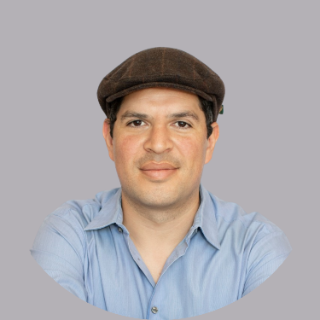
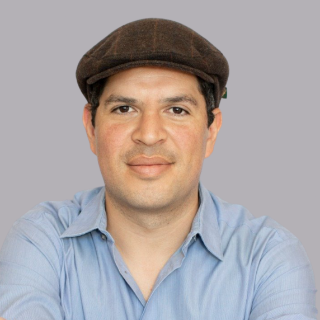
New version

diff --git a/index.html b/index.html
@@ -1,297 +1,27 @@
-<!DOCTYPE html>
-<html lang="en" style="background-color: rgb(121, 18, 206);">
-   <head>
-      <meta charset="UTF-8">
-      <meta name="viewport" content="width=device-width, initial-scale=1.0">
-      <meta name="robots" content="noindex, nofollow">
-      <meta name="author" content="EnBizCard - An Open-Source Digital Business Card Generator">
-      <meta name="url" content="https://enbizcard.vishnuraghav.com/">
-      <meta name="designer" content="Vishnu Raghav">
-      <meta property="og:title" content="Luis Fernandez's Digital Business Card">
-      <meta property="twitter:title" content="Luis Fernandez's Digital Business Card">
-      <script>
-         "http"==window.location.href.substr(0,4)&&"/"!=window.location.href.slice(-1)&&window.location.replace(window.location.href+"/");
-      </script> 
-      <link href="https://fonts.googleapis.com/css?family=Tinos" rel="stylesheet">
-      <title>Luis Fernandez's Digital Business Card</title>
-      <style>
-         #body{ font-family: sans-serif; } input[type='range']::-moz-range-track { background: none; } input[type='range']::-moz-range-thumb { -moz-appearance: none; width: 1.5rem; height: 1.5rem; border-radius: 0.25rem; border: none; background: #1D1A6C; z-index: 3; cursor: pointer; } input[type='range']::-webkit-slider-thumb { -webkit-appearance: none; width: 1.5rem; height: 1.5rem; border-radius: 0.25rem; border: none; background: #1D1A6C; z-index: 3; cursor: pointer; } .closeColor{ filter:invert(1)  } .topAction { } .iconColor{ color:#eee;  } .cardColor{ color:#222 !important } .textColor{ color:#222 !important } .seekbarColor{  background:#1D1A6C80 !important }
-      </style>
-      <!----> 
-      <style>
-         #body{
-         font-family:'Tinos'
-         }
-      </style>
-      <link rel="stylesheet" href="./style.min.css">
-      <!-- Google tag (gtag.js) -->
-      <script async="" src="https://www.googletagmanager.com/gtag/js?id=UA-346503-1"></script>
-      <script>
-         window.dataLayer = window.dataLayer || [];
-         function gtag(){dataLayer.push(arguments);}
-         gtag('js', new Date());
-         
-         gtag('config', 'UA-346503-1');
-      </script>
-   </head>
-   <body id="body">
-      <div id="modal" style="background-color: rgb(221, 221, 221); visibility: hidden; top: 2rem; opacity: 0;">
-         <a id="close" class="closeColor">
-            <div class="icon">
-               <svg viewBox="0 0 24 24" xmlns="http://www.w3.org/2000/svg" xml:space="preserve" style="fill-rule:evenodd;clip-rule:evenodd;stroke-linecap:round;stroke-linejoin:round;stroke-miterlimit:2">
-                  <path style="fill:none" d="M0 0h24v24H0z"></path>
-                  <path d="M18 6 6 18M6 6l12 12" style="fill:none;fill-rule:nonzero;stroke:#fff;stroke-width:2px"></path>
-               </svg>
-            </div>
-         </a>
-         <div id="keyView">
-            <p class="textColor">
-               Use my public key to send me encrypted messages
-            </p>
-            <a download="" target="_blank" id="dlKey" rel="noreferrer" tabindex="-1" style="background-color: rgb(29, 26, 108);" href="./Luis Fernandez's public key.asc">
-               <div class="icon iconColor">
-                  <svg viewBox="0 0 24 24" xmlns="http://www.w3.org/2000/svg" xml:space="preserve" style="fill-rule:evenodd;clip-rule:evenodd;stroke-linecap:round;stroke-linejoin:round;stroke-miterlimit:2">
-                     <path style="fill:none" d="M0 0h24v24H0z"></path>
-                     <path d="M21 15v4c0 1.097-.903 2-2 2H5c-1.097 0-2-.903-2-2v-4m4-5 5 5 5-5m-5 5V3" style="fill:none;fill-rule:nonzero;stroke:#fff;stroke-width:2px"></path>
-                  </svg>
-               </div>
-               <span class="iconColor">Download Key</span>
-            </a>
-         </div>
-         <div id="copyView">
-            <p class="textColor">
-               Copy and send the URL to share my Business Card
-            </p>
-            <button id="copyURL" control-id="ControlID-99" style="background-color: rgb(29, 26, 108);">
-               <div class="icon iconColor">
-                  <svg viewBox="0 0 24 24" xmlns="http://www.w3.org/2000/svg" xml:space="preserve" style="fill-rule:evenodd;clip-rule:evenodd;stroke-linecap:round;stroke-linejoin:round;stroke-miterlimit:2">
-                     <path style="fill:none" d="M0 0h24v24H0z"></path>
-                     <path d="M22 11a2 2 0 0 0-2-2h-9a2 2 0 0 0-2 2v9a2 2 0 0 0 2 2h9a2 2 0 0 0 2-2v-9Z" style="fill:none;stroke:#fff;stroke-width:2px"></path>
-                     <path d="M5 15H4c-1.097 0-2-.903-2-2V4c0-1.097.903-2 2-2h9c1.097 0 2 .903 2 2v1" style="fill:none;fill-rule:nonzero;stroke:#fff;stroke-width:2px"></path>
-                  </svg>
-               </div>
-               <span class="iconColor">Copy URL</span>
-            </button>
-         </div>
-         <div id="qrView" class="textColor">
-            <div id="qr"></div>
-            <h3>Scan the QR Code</h3>
-            <p>to view my Business Card on another device</p>
-         </div>
-      </div>
-      <header>
-         <div id="topActions" style="display: none;">
-            <div>
-               <a id="share">
-                  <div class="icon topAction">
-                     <svg viewBox="0 0 24 24" xmlns="http://www.w3.org/2000/svg" xml:space="preserve" style="fill-rule:evenodd;clip-rule:evenodd;stroke-linecap:round;stroke-miterlimit:2">
-                        <g>
-                           <path style="fill:none" d="M0 0h24v24H0z"></path>
-                           <clipPath id="a">
-                              <path d="M0 0h24v24H0z"></path>
-                           </clipPath>
-                           <g clip-path="url(#a)">
-                              <circle cx="17" cy="5" r="3" style="fill:none;stroke:#fff;stroke-width:2px"></circle>
-                              <circle cx="5" cy="12" r="3" style="fill:none;stroke:#fff;stroke-width:2px"></circle>
-                              <circle cx="17" cy="19" r="3" style="fill:none;stroke:#fff;stroke-width:2px"></circle>
-                              <path d="m7.59 13.51 6.83 3.98m-.01-10.98-6.82 3.98" style="fill:none;stroke:#fff;stroke-width:2px"></path>
-                           </g>
-                        </g>
-                     </svg>
-                  </div>
-               </a>
-               <a id="showQR">
-                  <div class="icon topAction">
-                     <svg viewBox="0 0 24 24" xmlns="http://www.w3.org/2000/svg" xml:space="preserve" style="fill-rule:evenodd;clip-rule:evenodd;stroke-linecap:round;stroke-linejoin:round;stroke-miterlimit:2">
-                        <path style="fill:none" d="M0 0h24v24H0z"></path>
-                        <path d="M4 4h4v4H4V4Zm0 12h4v4H4v-4ZM16 4h4v4h-4V4Z" style="fill:none;stroke:#fff;stroke-width:2px"></path>
-                        <path d="M12 4v14c0 1.097.903 2 2 2h4c1.097 0 2-.903 2-2v-4c0-1.097-.903-2-2-2H4" style="fill:none;stroke:#fff;stroke-width:2px;stroke-linejoin:miter"></path>
-                        <path style="fill:#fff" d="M15 15h2v2h-2z"></path>
-                     </svg>
-                  </div>
-               </a>
-            </div>
-            <!---->
-         </div>
-         <div class="headerImgC"><img id="cover" src="./cover.png" alt="Background Pattern"> <img id="logo" src="./logo.jpeg" alt="Logo" style="margin: 3rem 0px 6rem;"></div>
-      </header>
-      <main style="background-color: rgb(221, 221, 221); margin-top: 0px;">
-         <img id="profilePhoto" src="./photo.png" alt="Photo"> 
-         <div id="info" class="textColor">
-            <p class="name">
-               Luis Fernandez
-            </p>
-            <!----> 
-            <p class="jobtitle">
-               Executive Director
-            </p>
-            <p class="bizname">
-               Wunderman Thmopson Commerce &amp; Tech
-            </p>
-            <!---->
-         </div>
-         <p class="sub textColor">
-            Enterprise tech director, advisor, and consultant. 
-         </p>
-         <a id="cta" rel="noreferrer" download="" target="_blank" aria-label="Save Contact" style="background-color: rgb(29, 26, 108);" href="luisfernandez.vcf">
-            <div class="icon iconColor">
-               <svg viewBox="0 0 24 24" xmlns="http://www.w3.org/2000/svg" xml:space="preserve" style="fill-rule:evenodd;clip-rule:evenodd;stroke-linecap:round;stroke-linejoin:round;stroke-miterlimit:2">
-                  <path style="fill:none" d="M0 0h24v24H0z"></path>
-                  <circle cx="8.5" cy="7" r="4" style="fill:none;stroke:#fff;stroke-width:2.29px" transform="matrix(.875 0 0 .875 4.563 -.625)"></circle>
-                  <path d="M86 181c0-3.863 3.137-7 7-7s7 3.137 7 7" style="fill:none;stroke:#fff;stroke-width:2px" transform="translate(-81 -163)"></path>
-                  <path d="M104 168v6m3-3-3 3-3-3" style="fill:none;fill-rule:nonzero;stroke:#fff;stroke-width:2px" transform="translate(-92 -152)"></path>
-               </svg>
-            </div>
-            <p class="iconColor">Save Contact</p>
-         </a>
-         <div class="actions">
-            <div class="actionsC">
-               <div class="actionBtn">
-                  <a href="tel:+502330124188" target="_blank" rel="noopener noreferrer" aria-label="Mobile" style="background-color: rgb(29, 26, 108);">
-                     <div class="icon iconColor">
-                        <svg viewBox="0 0 24 24" xmlns="http://www.w3.org/2000/svg" xml:space="preserve" style="fill-rule:evenodd;clip-rule:evenodd;stroke-linecap:round;stroke-linejoin:round;stroke-miterlimit:2">
-                           <path style="fill:none" d="M0 0h24v24H0z"></path>
-                           <path d="M11.5 22a.952.952 0 0 1-1.052.945c-4.358-.544-7.851-4.338-8.379-8.39a.938.938 0 0 1 .936-1.046c.399-.009.847-.009 1.202-.009.388 0 .738.237.882.597l.478 1.196a.95.95 0 0 1-.21 1.025l-.107.107a.951.951 0 0 0-.181 1.091c.495.825 1.59 1.92 2.425 2.396a.927.927 0 0 0 1.066-.177c.05-.02.086-.056.122-.092a.95.95 0 0 1 1.025-.21l1.196.478c.36.144.597.494.597.882V22Z" style="fill:none;stroke:#fff;stroke-width:.95px" transform="translate(-2.21 -26.421) scale(2.10526)"></path>
-                        </svg>
-                     </div>
-                  </a>
-                  <p class="textColor">
-                     Mobile
-                  </p>
-               </div>
-            </div>
-            <div class="actionsC">
-               <div class="actionBtn">
-                  <a href="mailto:luis.fernandez@wundermanthompson.com " target="_blank" rel="noopener noreferrer" aria-label="Email" style="background-color: rgb(29, 26, 108);">
-                     <div class="icon iconColor">
-                        <svg viewBox="0 0 24 24" xmlns="http://www.w3.org/2000/svg" xml:space="preserve" style="fill-rule:evenodd;clip-rule:evenodd;stroke-linecap:round;stroke-linejoin:round;stroke-miterlimit:2">
-                           <path style="fill:none" d="M0 0h24v24H0z"></path>
-                           <path d="M22 33.75c0-.966-.896-1.75-2-1.75H4c-1.104 0-2 .784-2 1.75v10.5c0 .966.896 1.75 2 1.75h16c1.104 0 2-.784 2-1.75v-10.5Z" style="fill:none;stroke:#fff;stroke-width:1.86px" transform="matrix(1 0 0 1.14286 0 -32.571)"></path>
-                           <path d="m18 7.042-6 2.625-6-2.625" style="fill:none;fill-rule:nonzero;stroke:#fff;stroke-width:1.86px" transform="matrix(1 0 0 1.14286 0 1.952)"></path>
-                        </svg>
-                     </div>
-                  </a>
-                  <p class="textColor">
-                     Email
-                  </p>
-               </div>
-            </div>
-            <div class="actionsC">
-               <div class="actionBtn">
-                  <a href="sms:+502330124188" target="_blank" rel="noopener noreferrer" aria-label="SMS" style="background-color: rgb(29, 26, 108);">
-                     <div class="icon iconColor">
-                        <svg viewBox="0 0 24 24" xmlns="http://www.w3.org/2000/svg" xml:space="preserve" style="fill-rule:evenodd;clip-rule:evenodd;stroke-linecap:round;stroke-linejoin:round;stroke-miterlimit:2">
-                           <path style="fill:none" d="M0 0h24v24H0z"></path>
-                           <path d="M75.3 61c.477 0 .935.171 1.273.476.337.305.527.718.527 1.149v8.125c0 .897-.806 1.625-1.8 1.625h-8.975a9.7 9.7 0 0 0-4.992 1.365L60.9 74V62.625c0-.431.19-.844.527-1.149A1.904 1.904 0 0 1 62.7 61h12.6Z" style="fill:none;stroke:#fff;stroke-width:1.71px" transform="matrix(1.11111 0 0 1.23077 -64.667 -71.077)"></path>
-                           <path d="M36 13h4" style="fill:none;stroke:#fff;stroke-width:2px;stroke-linejoin:miter" transform="translate(-28)"></path>
-                           <path d="M36 9h8" style="fill:none;stroke:#fff;stroke-width:2px" transform="translate(-28)"></path>
-                        </svg>
-                     </div>
-                  </a>
-                  <p class="textColor">
-                     SMS
-                  </p>
-               </div>
-            </div>
-            <div class="actionsC">
-               <div class="actionBtn">
-                  <a href="https://api.whatsapp.com/send?phone=50230124188&text=Hi%20Luis!" target="_blank" rel="noopener noreferrer" aria-label="WhatsApp" style="background-color: rgb(29, 26, 108);">
-                     <div class="icon iconColor">
-                        <svg viewBox="0 0 24 24" xmlns="http://www.w3.org/2000/svg" xml:space="preserve" style="fill-rule:evenodd;clip-rule:evenodd;stroke-linecap:round;stroke-linejoin:round;stroke-miterlimit:1.5">
-                           <path style="fill:none" d="M0 0h24v24H0z"></path>
-                           <path d="M5.43 4.93A9.969 9.969 0 0 1 12.5 2c5.519 0 10 4.481 10 10 0 2.76-1.12 5.26-2.93 7.07l.001.001-.003.001A9.97 9.97 0 0 1 12.5 22a9.835 9.835 0 0 1-5.005-1.354l-4.187.546.546-4.187A9.835 9.835 0 0 1 2.5 12a9.97 9.97 0 0 1 2.928-7.068l.001-.003.001.001ZM16.5 16c-4.415 0-8-3.585-8-8" style="fill:none;stroke:#fff;stroke-width:2px"></path>
-                        </svg>
-                     </div>
-                  </a>
-                  <p class="textColor">
-                     WhatsApp
-                  </p>
-               </div>
-            </div>
-
-            <div class="actionsC">
-               <div class="actionBtn">
-                  <a target="_blank" rel="noopener noreferrer" aria-label="Calendar" style="background-color: rgb(29, 26, 108);" href="https://outlook.office.com/bookwithme/user/39805f96a8ae46d78021a135503fee05@wundermanthompson.com?anonymous&amp;ep=plink">
-                     <div class="icon iconColor">
-                        <svg viewBox="0 0 24 24" xmlns="http://www.w3.org/2000/svg" xml:space="preserve" style="fill-rule:evenodd;clip-rule:evenodd;stroke-linecap:round;stroke-linejoin:round;stroke-miterlimit:2">
-                           <path style="fill:none" d="M0 0h24v24H0z"></path>
-                           <path d="M19 75.111a2.13 2.13 0 0 0 1.414-.521c.375-.333.586-.785.586-1.257V61.778c0-.472-.211-.924-.586-1.257A2.13 2.13 0 0 0 19 60H5a2.13 2.13 0 0 0-1.414.521A1.683 1.683 0 0 0 3 61.778v11.555c0 .472.211.924.586 1.257A2.13 2.13 0 0 0 5 75.111h14Z" style="fill:none;stroke:#fff;stroke-width:1.88px" transform="matrix(1 0 0 1.125 0 -63.5)"></path>
-                           <path d="M76 30v4" style="fill:none;stroke:#fff;stroke-width:2px" transform="translate(-60 -28)"></path>
-                           <path d="M76 30v4" style="fill:none;stroke:#fff;stroke-width:2px" transform="translate(-68 -28)"></path>
-                           <path d="M63 38h10" style="fill:none;stroke:#fff;stroke-width:2px" transform="translate(-56 -28)"></path>
-                        </svg>
-                     </div>
-                  </a>
-                  <p class="textColor">
-                     Calendar
-                  </p>
-               </div>
-            </div>
-            <div class="actionsC">
-              <div class="actionBtn">
-                 <a target="_blank" rel="noopener noreferrer" aria-label="Website" style="background-color: rgb(29, 26, 108);" href="https://guisho.com">
-                    <div class="icon iconColor">
-                       <svg viewBox="0 0 24 24" xmlns="http://www.w3.org/2000/svg" xml:space="preserve" style="fill-rule:evenodd;clip-rule:evenodd;stroke-linecap:round;stroke-linejoin:round;stroke-miterlimit:2">
-                          <g>
-                             <path style="fill:none" d="M0 0h24v24H0z"></path>
-                             <clipPath id="a">
-                                <path d="M0 0h24v24H0z"></path>
-                             </clipPath>
-                             <g clip-path="url(#a)">
-                                <circle cx="12" cy="12" r="10" style="fill:none;stroke:#fff;stroke-width:2px"></circle>
-                                <ellipse cx="40" cy="40" rx="4" ry="10" style="fill:none;stroke:#fff;stroke-width:2px;stroke-linejoin:miter" transform="translate(-28 -28)"></ellipse>
-                                <path d="M40 50s-2-4-2-10 2-10 2-10" style="fill:none;stroke:#fff;stroke-width:2px" transform="rotate(-90 11.5 39.5)"></path>
-                             </g>
-                          </g>
-                       </svg>
-                    </div>
-                 </a>
-                 <p class="textColor">
-                    Website
-                 </p>
-              </div>
-           </div>
-        </div>
-    
-
-
-         </div>
-         <div class="actions secondary">
-            <div class="actionsC">
-               <div class="actionBtn secBtn">
-                  <a href="https://www.linkedin.com/in/fernandezgt/" target="_blank" rel="noopener noreferrer" aria-label="LinkedIn" style="background: rgb(0, 119, 181);">
-                     <div class="icon">
-                        <svg xmlns="http://www.w3.org/2000/svg" fill="#fff" viewBox="0 0 24 24">
-                           <path d="M20 3H4a1 1 0 0 0-1 1v16a1 1 0 0 0 1 1h16a1 1 0 0 0 1-1V4a1 1 0 0 0-1-1zM8.339 18.337H5.667v-8.59h2.672v8.59zM7.003 8.574a1.548 1.548 0 1 1 0-3.096 1.548 1.548 0 0 1 0 3.096zm11.335 9.763h-2.669V14.16c0-.996-.018-2.277-1.388-2.277-1.39 0-1.601 1.086-1.601 2.207v4.248h-2.667v-8.59h2.56v1.174h.037c.355-.675 1.227-1.387 2.524-1.387 2.704 0 3.203 1.778 3.203 4.092v4.71z"></path>
-                        </svg>
-                     </div>
-                  </a>
-               </div>
-            </div>
-         </div>
-
-
-         
-
-         <div class="featured">
-          <h2 class="section textColor">
-             QR Code
-          </h2>
-          <div>
-             <div class="media image" style="background-color: rgb(255, 255, 255);">
-                <div>
-                   <img src="./media/qr.png" alt="Product image"> 
-                   <div class="controls cardColor">
-                      <p class="title">
-                         QR
-                      </p>
-                   </div>
-                </div>
-                <!----> <!---->
-             </div>
-          </div>
-         
-      </main>
-      <!----><script src="./qrcode.min.js"></script><script>let m=document.getElementById("modal"),c=document.getElementById("close"),ki=document.getElementById("keyView"),cv=document.getElementById("copyView"),curl=document.getElementById("copyURL"),qrv=document.getElementById("qrView"),qr=document.getElementById("qr"),s=document.getElementById("share"),sqr=document.getElementById("showQR"),sk=document.getElementById("showKey");function tC(e){"2rem"==e.style.top?(e.style.visibility="visible",e.style.top="0px",e.style.opacity=1):(e.style.top="2rem",e.style.opacity=0,setTimeout(()=>{e.style.visibility="hidden"},200))}function dN(e){e.style.display="none"}window.addEventListener("load",()=>{document.querySelector("#topActions").style.display="flex",qr.innerHTML=new QRCode({content:window.location.href,container:"svg-viewbox",join:!0,ecl:"L",padding:0}).svg()}),navigator.canShare?s.addEventListener("click",()=>{navigator.share({title:document.title,text:"You can view my Digital Business Card here:",url:window.location.href})}):s.addEventListener("click",()=>{tC(m),cv.style.display="flex",dN(qrv),ki&&dN(ki)}),sqr.addEventListener("click",()=>{tC(m),qrv.style.display="block",dN(cv),ki&&dN(ki)}),sk&&sk.addEventListener("click",()=>{tC(m),ki&&(ki.style.display="flex"),dN(cv),dN(qrv)}),c.addEventListener("click",()=>tC(m)),curl.addEventListener("click",async()=>{let e=curl.querySelectorAll(".iconColor")[1];await navigator.clipboard.writeText(window.location.href).then(t=>{e.innerText="Copied",setTimeout(()=>{e.innerText="Copy URL"},1e3)})});</script><script>let pC=document.querySelectorAll(".pCtrl"),pP=document.querySelectorAll(".playPause"),srcs=document.querySelectorAll(".source");srcs.forEach(e=>{e.style.pointerEvents="none",e.removeAttribute("controls")}),pC.forEach((e,l)=>{e.style.display="flex";let r=e.querySelector(".currentTime"),s=e.querySelector(".seekBar"),t=e.querySelector(".playPause"),a=t.querySelector(".play"),c=t.querySelector(".pause");srcs[l].addEventListener("timeupdate",()=>{let e=srcs[l].currentTime,t=100/srcs[l].duration*e;s.value=t,100==t&&(s.value=0,a.style.display="block",c.style.display="none");let o=Math.floor(e/60),y=Math.floor(e%60);o.toString().length<2&&(o="0"+o),y.toString().length<2&&(y="0"+y),r.value=o+":"+y}),s.addEventListener("change",()=>{srcs[l].currentTime=srcs[l].duration*(parseInt(s.value)/100)}),t.addEventListener("click",()=>{srcs[l].paused?(srcs.forEach((e,r)=>{l!=r&&(e.paused||e.pause())}),pP.forEach((e,l)=>{let r=e.querySelector(".play"),s=e.querySelector(".pause");r.style.display="block",s.style.display="none"}),srcs[l].play(),a.style.display="none",c.style.display="block"):(srcs[l].pause(),c.style.display="none",a.style.display="block")})});</script>
-   </body>
-</html>
+<!DOCTYPE html><html lang="en" style="background-color: rgb(0, 0, 0);"><head><meta charset="UTF-8"> <meta name="viewport" content="width=device-width, initial-scale=1.0"> <meta name="robots" content="noindex, nofollow"> <meta name="author" content="EnBizCard - An Open-Source Digital Business Card Generator"> <meta name="url" content="https://enbizcard.vishnuraghav.com/"> <meta name="designer" content="Vishnu Raghav"> <meta property="og:title" content="Luis Fernandez's Digital Business Card"> <meta property="twitter:title" content="Luis Fernandez's Digital Business Card"> <script>
+          "http"==window.location.href.substr(0,4)&&"/"!=window.location.href.slice(-1)&&window.location.replace(window.location.href+"/");
+        </script> <!----> <title>Luis Fernandez's Digital Business Card</title> <style>
+          #body{ font-family: sans-serif; } input[type='range']::-moz-range-track { background: none; } input[type='range']::-moz-range-thumb { -moz-appearance: none; width: 1.5rem; height: 1.5rem; border-radius: 100%; border: none; background: #000000; z-index: 3; cursor: pointer; } input[type='range']::-webkit-slider-thumb { -webkit-appearance: none; width: 1.5rem; height: 1.5rem; border-radius: 100%; border: none; background: #000000; z-index: 3; cursor: pointer; } .closeColor{ filter:invert(1)  } .topAction { } .iconColor{ color:#eee;  } .cardColor{ false } .textColor{ color:#222 !important } .seekbarColor{  background:#00000080 !important }
+        </style> <!----> <!----><link rel="stylesheet" href="./style.min.css"></head> <body id="body"><div id="modal" style="background-color: rgb(255, 255, 255); visibility: hidden; top: 2rem; opacity: 0;"><a id="close" class="closeColor"><div class="icon"><svg viewBox="0 0 24 24" xmlns="http://www.w3.org/2000/svg" xml:space="preserve" style="fill-rule:evenodd;clip-rule:evenodd;stroke-linecap:round;stroke-linejoin:round;stroke-miterlimit:2"><path style="fill:none" d="M0 0h24v24H0z"></path><path d="M18 6 6 18M6 6l12 12" style="fill:none;fill-rule:nonzero;stroke:#fff;stroke-width:2px"></path></svg></div></a> <div id="keyView"><p class="textColor">
+              Use my public key to send me encrypted messages
+            </p> <a download="" target="_blank" id="dlKey" rel="noreferrer" tabindex="-1" style="background-color: rgb(0, 0, 0);" href="./Luis Fernandez's public key.asc"><div class="icon iconColor"><svg viewBox="0 0 24 24" xmlns="http://www.w3.org/2000/svg" xml:space="preserve" style="fill-rule:evenodd;clip-rule:evenodd;stroke-linecap:round;stroke-linejoin:round;stroke-miterlimit:2"><path style="fill:none" d="M0 0h24v24H0z"></path><path d="M21 15v4c0 1.097-.903 2-2 2H5c-1.097 0-2-.903-2-2v-4m4-5 5 5 5-5m-5 5V3" style="fill:none;fill-rule:nonzero;stroke:#fff;stroke-width:2px"></path></svg></div> <span class="iconColor">Download Key</span></a></div> <div id="copyView"><p class="textColor">
+              Copy and send the URL to share my Business Card
+            </p> <button id="copyURL" style="background-color: rgb(0, 0, 0);"><div class="icon iconColor"><svg viewBox="0 0 24 24" xmlns="http://www.w3.org/2000/svg" xml:space="preserve" style="fill-rule:evenodd;clip-rule:evenodd;stroke-linecap:round;stroke-linejoin:round;stroke-miterlimit:2"><path style="fill:none" d="M0 0h24v24H0z"></path><path d="M22 11a2 2 0 0 0-2-2h-9a2 2 0 0 0-2 2v9a2 2 0 0 0 2 2h9a2 2 0 0 0 2-2v-9Z" style="fill:none;stroke:#fff;stroke-width:2px"></path><path d="M5 15H4c-1.097 0-2-.903-2-2V4c0-1.097.903-2 2-2h9c1.097 0 2 .903 2 2v1" style="fill:none;fill-rule:nonzero;stroke:#fff;stroke-width:2px"></path></svg></div> <span class="iconColor">Copy URL</span></button></div> <div id="qrView" class="textColor"><div id="qr"></div> <h3>Scan the QR Code</h3> <p>to view my Business Card on another device</p></div></div> <header><div id="topActions" style="display: none;"><div><a id="share"><div class="icon topAction"><svg viewBox="0 0 24 24" xmlns="http://www.w3.org/2000/svg" xml:space="preserve" style="fill-rule:evenodd;clip-rule:evenodd;stroke-linecap:round;stroke-miterlimit:2"><g><path style="fill:none" d="M0 0h24v24H0z"></path><clipPath id="a"><path d="M0 0h24v24H0z"></path></clipPath><g clip-path="url(#a)"><circle cx="17" cy="5" r="3" style="fill:none;stroke:#fff;stroke-width:2px"></circle><circle cx="5" cy="12" r="3" style="fill:none;stroke:#fff;stroke-width:2px"></circle><circle cx="17" cy="19" r="3" style="fill:none;stroke:#fff;stroke-width:2px"></circle><path d="m7.59 13.51 6.83 3.98m-.01-10.98-6.82 3.98" style="fill:none;stroke:#fff;stroke-width:2px"></path></g></g></svg></div></a> <a id="showQR"><div class="icon topAction"><svg viewBox="0 0 24 24" xmlns="http://www.w3.org/2000/svg" xml:space="preserve" style="fill-rule:evenodd;clip-rule:evenodd;stroke-linecap:round;stroke-linejoin:round;stroke-miterlimit:2"><path style="fill:none" d="M0 0h24v24H0z"></path><path d="M4 4h4v4H4V4Zm0 12h4v4H4v-4ZM16 4h4v4h-4V4Z" style="fill:none;stroke:#fff;stroke-width:2px"></path><path d="M12 4v14c0 1.097.903 2 2 2h4c1.097 0 2-.903 2-2v-4c0-1.097-.903-2-2-2H4" style="fill:none;stroke:#fff;stroke-width:2px;stroke-linejoin:miter"></path><path style="fill:#fff" d="M15 15h2v2h-2z"></path></svg></div></a></div> <!----></div> <div class="headerImgC"><img id="cover" src="./cover.jpeg" alt="Background Pattern"> <img id="logo" src="./logo.jpeg" alt="Logo" style="margin: 3rem 0px 6rem;"></div></header> <main style="background-color: rgb(255, 255, 255); margin-top: 0px;"><img id="profilePhoto" src="./photo.png" alt="Photo"> <div id="info" class="textColor"><p class="name">
+              Luis Fernandez
+            </p> <!----> <p class="jobtitle">
+              Executive Director, Tech
+            </p> <p class="bizname">
+              ES at VML
+            </p> <!----></div> <!----> <a id="cta" rel="noreferrer" download="" target="_blank" aria-label="Save Contact" style="background-color: rgb(0, 0, 0);" href="luisfernandez.vcf"><div class="icon iconColor"><svg viewBox="0 0 24 24" xmlns="http://www.w3.org/2000/svg" xml:space="preserve" style="fill-rule:evenodd;clip-rule:evenodd;stroke-linecap:round;stroke-linejoin:round;stroke-miterlimit:2"><path style="fill:none" d="M0 0h24v24H0z"></path><circle cx="8.5" cy="7" r="4" style="fill:none;stroke:#fff;stroke-width:2.29px" transform="matrix(.875 0 0 .875 4.563 -.625)"></circle><path d="M86 181c0-3.863 3.137-7 7-7s7 3.137 7 7" style="fill:none;stroke:#fff;stroke-width:2px" transform="translate(-81 -163)"></path><path d="M104 168v6m3-3-3 3-3-3" style="fill:none;fill-rule:nonzero;stroke:#fff;stroke-width:2px" transform="translate(-92 -152)"></path></svg></div> <p class="iconColor">Save Contact</p></a> <div class="actions"><div class="actionsC"><div class="actionBtn"><a href="tel:(551) 231-9133" target="_blank" rel="noopener noreferrer" aria-label="Mobile" style="background-color: rgb(0, 0, 0);"><div class="icon iconColor"><svg viewBox="0 0 24 24" xmlns="http://www.w3.org/2000/svg" xml:space="preserve" style="fill-rule:evenodd;clip-rule:evenodd;stroke-linecap:round;stroke-linejoin:round;stroke-miterlimit:2"><path style="fill:none" d="M0 0h24v24H0z"></path><path d="M11.5 22a.952.952 0 0 1-1.052.945c-4.358-.544-7.851-4.338-8.379-8.39a.938.938 0 0 1 .936-1.046c.399-.009.847-.009 1.202-.009.388 0 .738.237.882.597l.478 1.196a.95.95 0 0 1-.21 1.025l-.107.107a.951.951 0 0 0-.181 1.091c.495.825 1.59 1.92 2.425 2.396a.927.927 0 0 0 1.066-.177c.05-.02.086-.056.122-.092a.95.95 0 0 1 1.025-.21l1.196.478c.36.144.597.494.597.882V22Z" style="fill:none;stroke:#fff;stroke-width:.95px" transform="translate(-2.21 -26.421) scale(2.10526)"></path></svg></div></a> <p class="textColor">
+                  Mobile
+                </p></div></div><div class="actionsC"><div class="actionBtn"><a href="sms:(551) 231-9133" target="_blank" rel="noopener noreferrer" aria-label="SMS" style="background-color: rgb(0, 0, 0);"><div class="icon iconColor"><svg viewBox="0 0 24 24" xmlns="http://www.w3.org/2000/svg" xml:space="preserve" style="fill-rule:evenodd;clip-rule:evenodd;stroke-linecap:round;stroke-linejoin:round;stroke-miterlimit:2"><path style="fill:none" d="M0 0h24v24H0z"></path><path d="M75.3 61c.477 0 .935.171 1.273.476.337.305.527.718.527 1.149v8.125c0 .897-.806 1.625-1.8 1.625h-8.975a9.7 9.7 0 0 0-4.992 1.365L60.9 74V62.625c0-.431.19-.844.527-1.149A1.904 1.904 0 0 1 62.7 61h12.6Z" style="fill:none;stroke:#fff;stroke-width:1.71px" transform="matrix(1.11111 0 0 1.23077 -64.667 -71.077)"></path><path d="M36 13h4" style="fill:none;stroke:#fff;stroke-width:2px;stroke-linejoin:miter" transform="translate(-28)"></path><path d="M36 9h8" style="fill:none;stroke:#fff;stroke-width:2px" transform="translate(-28)"></path></svg></div></a> <p class="textColor">
+                  SMS
+                </p></div></div><div class="actionsC"><div class="actionBtn"><a target="_blank" rel="noopener noreferrer" aria-label="WhatsApp" style="background-color: rgb(0, 0, 0);" href="https://api.whatsapp.com/send?phone=15512319133&amp;text=Hi%20Luis!"><div class="icon iconColor"><svg viewBox="0 0 24 24" xmlns="http://www.w3.org/2000/svg" xml:space="preserve" style="fill-rule:evenodd;clip-rule:evenodd;stroke-linecap:round;stroke-linejoin:round;stroke-miterlimit:1.5"><path style="fill:none" d="M0 0h24v24H0z"></path><path d="M5.43 4.93A9.969 9.969 0 0 1 12.5 2c5.519 0 10 4.481 10 10 0 2.76-1.12 5.26-2.93 7.07l.001.001-.003.001A9.97 9.97 0 0 1 12.5 22a9.835 9.835 0 0 1-5.005-1.354l-4.187.546.546-4.187A9.835 9.835 0 0 1 2.5 12a9.97 9.97 0 0 1 2.928-7.068l.001-.003.001.001ZM16.5 16c-4.415 0-8-3.585-8-8" style="fill:none;stroke:#fff;stroke-width:2px"></path></svg></div></a> <p class="textColor">
+                  WhatsApp
+                </p></div></div><div class="actionsC"><div class="actionBtn"><a href="mailto:luis.fernandez@vml.com" target="_blank" rel="noopener noreferrer" aria-label="Email" style="background-color: rgb(0, 0, 0);"><div class="icon iconColor"><svg viewBox="0 0 24 24" xmlns="http://www.w3.org/2000/svg" xml:space="preserve" style="fill-rule:evenodd;clip-rule:evenodd;stroke-linecap:round;stroke-linejoin:round;stroke-miterlimit:2"><path style="fill:none" d="M0 0h24v24H0z"></path><path d="M22 33.75c0-.966-.896-1.75-2-1.75H4c-1.104 0-2 .784-2 1.75v10.5c0 .966.896 1.75 2 1.75h16c1.104 0 2-.784 2-1.75v-10.5Z" style="fill:none;stroke:#fff;stroke-width:1.86px" transform="matrix(1 0 0 1.14286 0 -32.571)"></path><path d="m18 7.042-6 2.625-6-2.625" style="fill:none;fill-rule:nonzero;stroke:#fff;stroke-width:1.86px" transform="matrix(1 0 0 1.14286 0 1.952)"></path></svg></div></a> <p class="textColor">
+                  Email
+                </p></div></div><div class="actionsC"><div class="actionBtn"><a target="_blank" rel="noopener noreferrer" aria-label="Calendar" style="background-color: rgb(0, 0, 0);" href="https://outlook.office.com/bookwithme/user/39805f96a8ae46d78021a135503fee05@wundermanthompson.com/meetingtype/ZCCU0JtvHUaJeK6xwjzykg2?anonymous&amp;ep=mlink"><div class="icon iconColor"><svg viewBox="0 0 24 24" xmlns="http://www.w3.org/2000/svg" xml:space="preserve" style="fill-rule:evenodd;clip-rule:evenodd;stroke-linecap:round;stroke-linejoin:round;stroke-miterlimit:2"><path style="fill:none" d="M0 0h24v24H0z"></path><path d="M19 75.111a2.13 2.13 0 0 0 1.414-.521c.375-.333.586-.785.586-1.257V61.778c0-.472-.211-.924-.586-1.257A2.13 2.13 0 0 0 19 60H5a2.13 2.13 0 0 0-1.414.521A1.683 1.683 0 0 0 3 61.778v11.555c0 .472.211.924.586 1.257A2.13 2.13 0 0 0 5 75.111h14Z" style="fill:none;stroke:#fff;stroke-width:1.88px" transform="matrix(1 0 0 1.125 0 -63.5)"></path><path d="M76 30v4" style="fill:none;stroke:#fff;stroke-width:2px" transform="translate(-60 -28)"></path><path d="M76 30v4" style="fill:none;stroke:#fff;stroke-width:2px" transform="translate(-68 -28)"></path><path d="M63 38h10" style="fill:none;stroke:#fff;stroke-width:2px" transform="translate(-56 -28)"></path></svg></div></a> <p class="textColor">
+                  Calendar
+                </p></div></div></div> <div class="actions secondary"><div class="actionsC"><div class="actionBtn secBtn"><a href="https://linkedin.com/https://www.linkedin.com/in/fernandezgt/" target="_blank" rel="noopener noreferrer" aria-label="LinkedIn" style="background: rgb(0, 119, 181);"><div class="icon"><svg xmlns="http://www.w3.org/2000/svg" fill="#fff" viewBox="0 0 24 24"><path d="M20 3H4a1 1 0 0 0-1 1v16a1 1 0 0 0 1 1h16a1 1 0 0 0 1-1V4a1 1 0 0 0-1-1zM8.339 18.337H5.667v-8.59h2.672v8.59zM7.003 8.574a1.548 1.548 0 1 1 0-3.096 1.548 1.548 0 0 1 0 3.096zm11.335 9.763h-2.669V14.16c0-.996-.018-2.277-1.388-2.277-1.39 0-1.601 1.086-1.601 2.207v4.248h-2.667v-8.59h2.56v1.174h.037c.355-.675 1.227-1.387 2.524-1.387 2.704 0 3.203 1.778 3.203 4.092v4.71z"></path></svg></div></a></div></div></div> <div class="featured"><h2 class="section textColor">
+              Section title
+            </h2> </div></main> <!----><script src="./qrcode.min.js"></script><script>let m=document.getElementById("modal"),c=document.getElementById("close"),ki=document.getElementById("keyView"),cv=document.getElementById("copyView"),curl=document.getElementById("copyURL"),qrv=document.getElementById("qrView"),qr=document.getElementById("qr"),s=document.getElementById("share"),sqr=document.getElementById("showQR"),sk=document.getElementById("showKey");function tC(e){"2rem"==e.style.top?(e.style.visibility="visible",e.style.top="0px",e.style.opacity=1):(e.style.top="2rem",e.style.opacity=0,setTimeout(()=>{e.style.visibility="hidden"},200))}function dN(e){e.style.display="none"}window.addEventListener("load",()=>{document.querySelector("#topActions").style.display="flex",qr.innerHTML=new QRCode({content:window.location.href,container:"svg-viewbox",join:!0,ecl:"L",padding:0}).svg()}),navigator.canShare?s.addEventListener("click",()=>{navigator.share({title:document.title,text:"You can view my Digital Business Card here:",url:window.location.href})}):s.addEventListener("click",()=>{tC(m),cv.style.display="flex",dN(qrv),ki&&dN(ki)}),sqr.addEventListener("click",()=>{tC(m),qrv.style.display="block",dN(cv),ki&&dN(ki)}),sk&&sk.addEventListener("click",()=>{tC(m),ki&&(ki.style.display="flex"),dN(cv),dN(qrv)}),c.addEventListener("click",()=>tC(m)),curl.addEventListener("click",async()=>{let e=curl.querySelectorAll(".iconColor")[1];await navigator.clipboard.writeText(window.location.href).then(t=>{e.innerText="Copied",setTimeout(()=>{e.innerText="Copy URL"},1e3)})});</script><script>let pC=document.querySelectorAll(".pCtrl"),pP=document.querySelectorAll(".playPause"),srcs=document.querySelectorAll(".source");srcs.forEach(e=>{e.style.pointerEvents="none",e.removeAttribute("controls")}),pC.forEach((e,l)=>{e.style.display="flex";let r=e.querySelector(".currentTime"),s=e.querySelector(".seekBar"),t=e.querySelector(".playPause"),a=t.querySelector(".play"),c=t.querySelector(".pause");srcs[l].addEventListener("timeupdate",()=>{let e=srcs[l].currentTime,t=100/srcs[l].duration*e;s.value=t,100==t&&(s.value=0,a.style.display="block",c.style.display="none");let o=Math.floor(e/60),y=Math.floor(e%60);o.toString().length<2&&(o="0"+o),y.toString().length<2&&(y="0"+y),r.value=o+":"+y}),s.addEventListener("change",()=>{srcs[l].currentTime=srcs[l].duration*(parseInt(s.value)/100)}),t.addEventListener("click",()=>{srcs[l].paused?(srcs.forEach((e,r)=>{l!=r&&(e.paused||e.pause())}),pP.forEach((e,l)=>{let r=e.querySelector(".play"),s=e.querySelector(".pause");r.style.display="block",s.style.display="none"}),srcs[l].play(),a.style.display="none",c.style.display="block"):(srcs[l].pause(),c.style.display="none",a.style.display="block")})});</script></body></html>

diff --git a/style.min.css b/style.min.css
@@ -1,1 +1,1 @@
-body{margin:0 auto;width:100%;padding:0;max-width:30rem;color:#eee;position:relative}p{line-height:1.5;margin:0}h2,h3{margin:0}.icon{width:1.5rem;height:1.5rem}a{text-decoration:none;-webkit-user-select:none;-moz-user-select:none;-ms-user-select:none;user-select:none}#modal{display:flex;flex-direction:column;position:absolute;z-index:1;width:100%;bottom:0;transition:top .2s ease-out,opacity .1s ease-out;transform:translateZ(0)}#close{align-self:end;padding:1rem;cursor:pointer;line-height:0}#keyView,#copyView,#qrView{display:flex;flex-direction:column;align-items:center;margin:0 1rem;text-align:center}#keyView p,#copyView p,#qrView p{margin:2rem}#copyURL,#dlKey{display:flex;width:100%;align-items:center;justify-content:center;border-radius:.5rem;padding:1rem 1.5rem;border:none;outline:none;cursor:pointer;box-sizing:border-box}#copyURL span,#dlKey span{margin-left:.5rem}#qrView h3{margin:2rem 2rem 0}#qrView p{margin:.5rem 2rem 0}#qr{margin:2rem;padding:2rem;background:#fff;border-radius:.5rem}header{display:flex;justify-content:flex-start;flex-direction:column}.headerImgC{display:grid;grid-template-columns:auto;grid-template-rows:auto;overflow:hidden}#cover{grid-column:1;grid-row:1;width:100%;height:20rem;-o-object-position:top center;object-position:top center;-o-object-fit:cover;object-fit:cover}#logo{max-height:6rem;pointer-events:none;-webkit-user-select:none;-moz-user-select:none;-ms-user-select:none;user-select:none;grid-column:1;grid-row:1;align-self:center;justify-self:center}#topActions{flex-direction:row-reverse;justify-content:space-between;align-items:flex-start}#topActions>div{display:flex}#topActions a{padding:1rem;cursor:pointer;line-height:0}main{padding:1rem;display:flex;flex-direction:column;align-items:center;text-align:center}#profilePhoto{width:10rem;height:10rem;border-radius:.5rem;box-sizing:content-box;pointer-events:none;-webkit-user-select:none;-moz-user-select:none;-ms-user-select:none;user-select:none;margin-top:-6rem}#info{display:flex;flex-direction:column;justify-content:center;align-items:center;margin-top:1rem;line-height:1.25;word-break:break-word}.name{font-weight:bold;font-size:1.5rem;margin:0}.pronouns{display:block;font-size:.9rem;opacity:.8;font-weight:normal;margin:0 0 .5rem}.bizname{font-size:.9rem;margin:.5rem 0 0 0;opacity:.8}.bizaddr{font-size:.8rem;opacity:.6}.sub,.textC{font-size:1rem;white-space:pre-line;line-height:1.5}.sub{font-size:.9rem;margin:.5rem 0 0;opacity:.8}.textC{margin:1rem}#cta{display:flex;align-items:center;border-radius:.5rem;margin-top:2rem;padding:1rem 1.5rem;cursor:pointer;line-height:0;width:100%;justify-content:center;box-sizing:border-box}#cta .icon{margin-right:.5rem}#cta p{margin:0}.actions{width:100%;margin-top:2rem;display:flex;flex-wrap:wrap;justify-content:center}.actionsC{width:33.33%}.actionBtn{padding:.5rem;display:flex;flex-direction:column;align-items:center;justify-content:center}.actionBtn a{border-radius:.5rem;padding:1rem;line-height:0}.actionBtn p{margin:.5rem 0 0;font-size:.9rem}.secBtn{padding:1rem}.featured{display:flex;flex-direction:column;justify-content:center;margin:2rem 0 0;width:100%}.section{font-weight:bold;text-align:center;font-size:1.3rem;padding:1rem 0}.media{overflow:hidden;border-radius:.5rem;margin-top:1rem}.media img{display:block;pointer-events:none;-webkit-user-select:none;-moz-user-select:none;-ms-user-select:none;user-select:none;width:100%}.embedded{position:relative;padding-top:100%}.embedded iframe{position:absolute;top:0;left:0;width:100%;height:100%}.music,.video{width:100%}.mediaC{display:flex;flex-direction:column;justify-content:space-evenly;align-items:center}video{width:100%}.controls{padding:1rem;font-size:.9rem;text-align:center;width:100%;box-sizing:border-box}.pCtrl,.docDl{display:none;flex-direction:column;align-items:center;width:100%}.docDl{display:flex}.seekBar{width:100%;height:.5rem;margin:1.5rem 0 .5rem;border-radius:.5rem;-webkit-appearance:none;-moz-appearance:none;appearance:none;cursor:pointer}.playPause,.dlBtn{margin:1rem 0 .5rem;padding:1rem;border-radius:.5rem;line-height:0;cursor:pointer}.pause{display:none}.title{font-size:1rem;font-weight:bold;margin:0}.prodInfo .sub{margin:-1rem 0 0}.price{margin:1rem 0 0;font-size:1rem;font-weight:bold}.label{display:inline-block;font-size:1rem;margin:1rem 0 .5rem;border-radius:.5rem;letter-spacing:1px;padding:1rem 1.5rem}.label p{margin:0}footer{padding:4rem 1rem 2rem;font-size:.9rem;text-align:center}footer a{text-decoration:underline;color:inherit}
+body{margin:0 auto;width:100%;padding:0;max-width:30rem;color:#eee;position:relative}p{line-height:1.5;margin:0}h2,h3{margin:0}.icon{width:1.5rem;height:1.5rem}a{text-decoration:none;-webkit-user-select:none;-moz-user-select:none;-ms-user-select:none;user-select:none}#modal{display:flex;flex-direction:column;position:absolute;z-index:1;width:100%;bottom:0;transition:top .2s ease-out,opacity .1s ease-out;transform:translateZ(0)}#close{align-self:end;padding:1rem;cursor:pointer;line-height:0}#keyView,#copyView,#qrView{display:flex;flex-direction:column;align-items:center;margin:0 1rem;text-align:center}#keyView p,#copyView p,#qrView p{margin:2rem;text-align:center}#copyURL,#dlKey{display:flex;width:100%;align-items:center;justify-content:center;border-radius:5rem;padding:1rem 1.5rem;border:none;outline:none;cursor:pointer;box-sizing:border-box}#copyURL span,#dlKey span{margin-left:.5rem}#qrView h3{margin:2rem 2rem 0}#qrView p{margin:.5rem 2rem 0}#qr{margin:2rem;padding:2rem;background:#fff;border-radius:.5rem}header{display:flex;justify-content:flex-start;flex-direction:column}.headerImgC{display:grid;grid-template-columns:auto;grid-template-rows:auto;overflow:hidden}#cover{grid-column:1;grid-row:1;width:100%;height:20rem;-o-object-position:top center;object-position:top center;-o-object-fit:cover;object-fit:cover}#logo{max-height:6rem;pointer-events:none;-webkit-user-select:none;-moz-user-select:none;-ms-user-select:none;user-select:none;grid-column:1;grid-row:1;align-self:center;justify-self:center}#topActions{flex-direction:row-reverse;justify-content:space-between;align-items:flex-start}#topActions>div{display:flex}#topActions a{padding:1rem;cursor:pointer;line-height:0}main{padding:1rem;display:flex;flex-direction:column;align-items:center;text-align:center}#profilePhoto{width:10rem;height:10rem;border-radius:100%;box-sizing:content-box;pointer-events:none;-webkit-user-select:none;-moz-user-select:none;-ms-user-select:none;user-select:none;margin-top:-6rem}#info{display:flex;flex-direction:column;justify-content:center;align-items:center;margin-top:1rem;line-height:1.25;word-break:break-word}.name{font-weight:bold;font-size:1.5rem;margin:0}.pronouns{display:block;font-size:.9rem;opacity:.8;font-weight:normal;margin:0 0 .5rem}.bizname{font-size:.9rem;margin:.5rem 0 0;opacity:.8}.bizaddr{font-size:.8rem;opacity:.6}.sub,.textC{font-size:1rem;white-space:pre-line;line-height:1.5}.sub{font-size:.9rem;margin:.5rem 0 0;opacity:.8}.textC{margin:1rem}#cta{display:flex;align-items:center;border-radius:5rem;margin-top:2rem;padding:1rem 1.5rem;cursor:pointer;line-height:0;width:100%;justify-content:center;box-sizing:border-box}#cta .icon{margin-right:.5rem}#cta p{margin:0}.actions{width:100%;margin-top:2rem;display:flex;flex-wrap:wrap;justify-content:center}.actionsC{width:33.33%}.actionBtn{padding:.5rem;display:flex;flex-direction:column;align-items:center;justify-content:center}.actionBtn a{border-radius:100%;padding:1rem;line-height:0}.actionBtn p{margin:.5rem 0 0;font-size:.9rem}.secBtn{padding:1rem}.featured{display:flex;flex-direction:column;justify-content:center;margin:2rem 0 0;width:100%}.section{font-weight:bold;text-align:center;font-size:1.3rem;padding:1rem 0}.media{overflow:hidden;border-radius:1rem;margin-top:1rem}.media img{display:block;pointer-events:none;-webkit-user-select:none;-moz-user-select:none;-ms-user-select:none;user-select:none;width:100%}.embedded{position:relative;padding-top:100%}.embedded iframe{position:absolute;top:0;left:0;width:100%;height:100%}.music,.video{width:100%}.mediaC{display:flex;flex-direction:column;justify-content:space-evenly;align-items:center}video{width:100%}.controls{padding:1rem;font-size:.9rem;text-align:center;width:100%;box-sizing:border-box}.pCtrl,.docDl{display:none;flex-direction:column;align-items:center;width:100%}.docDl{display:flex}.seekBar{width:100%;height:.5rem;margin:1.5rem 0 .5rem;border-radius:5rem;-webkit-appearance:none;-moz-appearance:none;appearance:none;cursor:pointer}.playPause,.dlBtn{margin:1rem 0 .5rem;padding:1rem;border-radius:5rem;line-height:0;cursor:pointer}.pause{display:none}.title{font-size:1rem;font-weight:bold;margin:0}.prodInfo .sub{margin:-1rem 0 0}.price{margin:1rem 0 0;font-size:1rem;font-weight:bold}.label{display:inline-block;font-size:1rem;margin:1rem 0 .5rem;border-radius:5rem;letter-spacing:1px;padding:1rem 1.5rem}.label p{margin:0}footer{padding:4rem 1rem 2rem;font-size:.9rem;text-align:center}footer a{text-decoration:underline;color:inherit}
